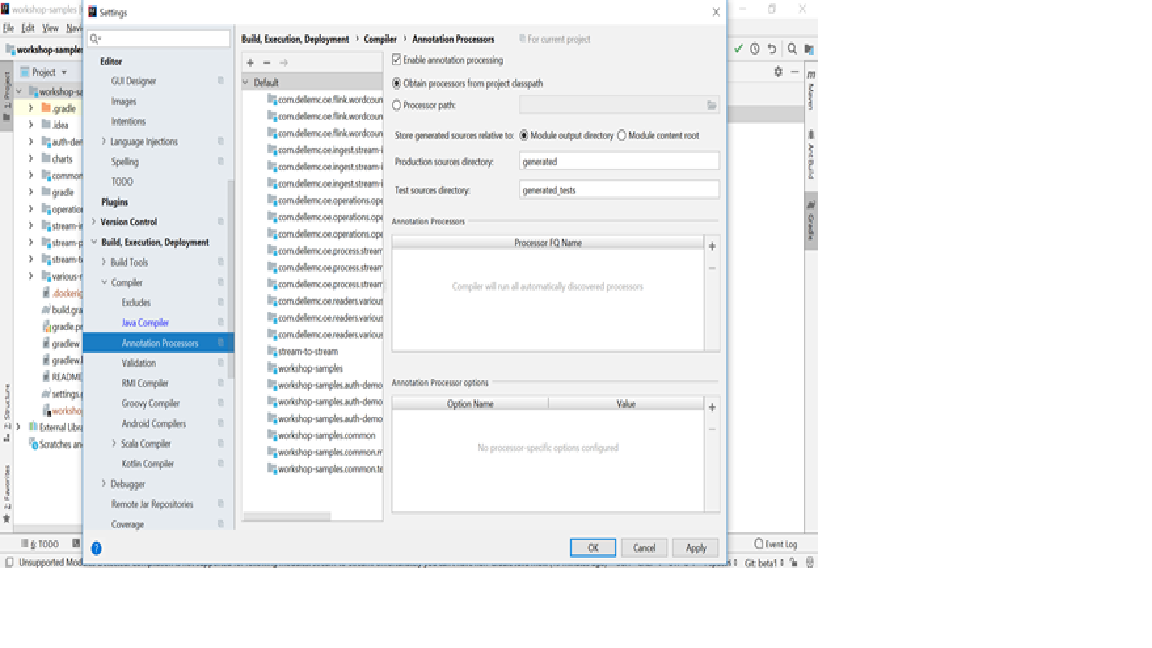
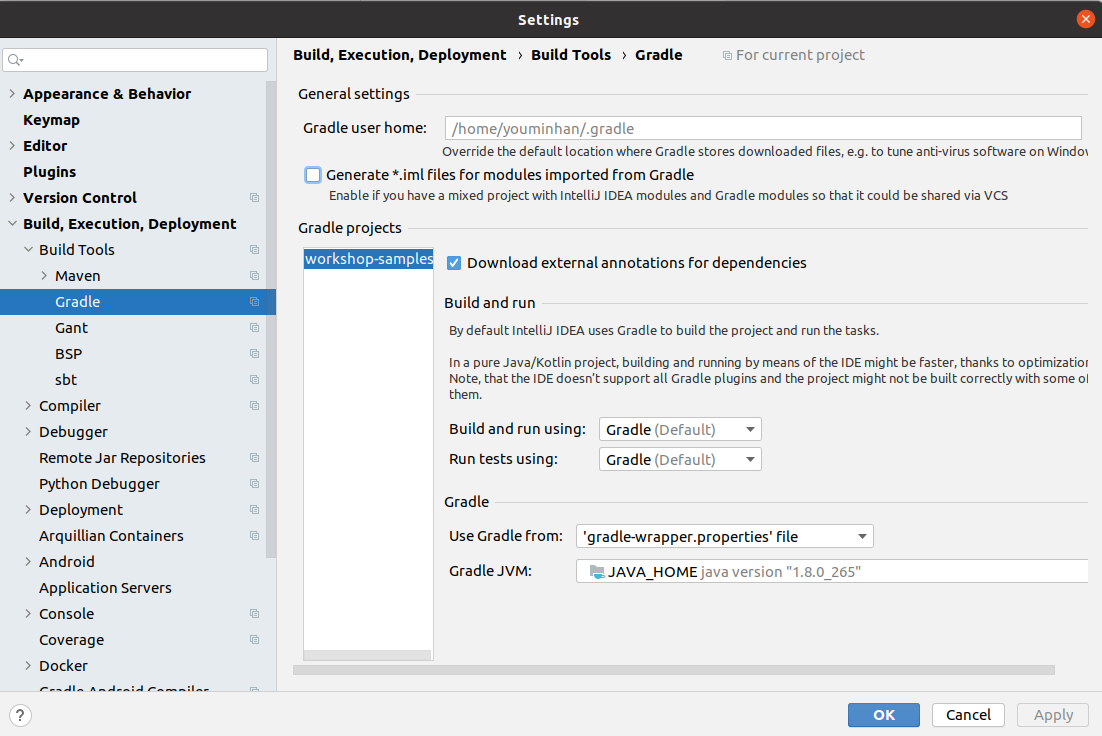
Reconstruct and update the example to be ready for OSS approval

Changed region(s): [[0.0, 0.0, 1.0, 1.0], [0.3394, 0.7716, 0.4936, 0.8025]]

diff --git a/stream-readers/src/main/java/com/dellemc/oe/readers/FlinkSQLJOINReader.java b/stream-readers/src/main/java/com/dellemc/oe/readers/FlinkSQLJOINReader.java
@@ -17,6 +17,7 @@ import com.dellemc.oe.util.AppConfiguration;
 import io.pravega.client.stream.Stream;
 import io.pravega.connectors.flink.table.descriptors.Pravega;
 import io.pravega.connectors.flink.PravegaConfig;
+import org.apache.commons.io.IOUtils;
 import org.apache.flink.api.java.tuple.Tuple2;
 
 import org.apache.flink.streaming.api.TimeCharacteristic;
@@ -36,6 +37,7 @@ import org.apache.flink.table.sources.TableSource;
 import org.apache.flink.types.Row;
 
 
+import java.io.*;
 import java.net.*;
 import java.util.Map;
 
@@ -110,22 +112,42 @@ public class FlinkSQLJOINReader extends AbstractApp {
            tableEnv.registerDataStream("hvacStream", dataStream);
 
             // load the static data from CSV.
+            String targetDirString = appConfiguration.getCsvDir();
+            File targetDir = new File(targetDirString);
+            if (targetDir.exists()){
+                LOG.info("################## Target Dir Exists: " +  targetDirString + " ################  ");
+            } else {
+                if (targetDir.mkdirs()) {
+                    LOG.info("################## Target Dir Create: " +  targetDirString + " ################  ");
+                } else {
+                    LOG.error("################## Cannot Create Target Dir: " +  targetDirString + " ################  ");
+                }
+            }
+
+            String filePath = targetDirString + "/building.csv";
             ClassLoader loader = Thread.currentThread().getContextClassLoader();
-            URL resourceUrl = loader.getResource("building.csv");
-            String filePath = resourceUrl.getPath();
-            LOG.info("################## FILE PATH ################  "+filePath);
+            InputStream resourceStream = loader.getResourceAsStream("building.csv");
+
+            File file = new File(filePath);
+            try(OutputStream outputStream = new FileOutputStream(file)){
+                IOUtils.copy(resourceStream, outputStream);
+            } catch (FileNotFoundException e) {
+                LOG.warn("########## Building File ERROR  #############  " + e.getMessage());
+            } catch (IOException e) {
+                LOG.error("########## Building File ERROR  #############  " + e.getMessage());
+            }
 
             // This is a finite list of items which has an BuildingID,BuildingMgr,BuildingAge,HVACproduct,Country
             CsvTableSource buildingSource = new CsvTableSource.Builder()
                     .path(filePath)
                     .ignoreParseErrors()
+                    .ignoreFirstLine()
                     .field("BuildingID", DataTypes.INT())
                     .field("BuildingMgr", DataTypes.STRING())
                     .field("BuildingAge", DataTypes.INT())
                     .field("HVACproduct", DataTypes.STRING())
                     .field("Country", DataTypes.STRING())
                     .build();
-
 
             // Similarly, register this list of items as a table.
             tableEnv.registerTableSource("building", buildingSource);

diff --git a/stream-readers/src/main/java/com/dellemc/oe/readers/util/HvacRecord.java b/stream-readers/src/main/java/com/dellemc/oe/readers/util/HvacRecord.java
@@ -1,5 +1,6 @@
 package com.dellemc.oe.readers.util;
 
+import org.apache.flink.table.api.DataTypes;
 import org.apache.flink.table.api.TableSchema;
 import org.apache.flink.table.api.Types;
 import org.apache.flink.table.descriptors.Schema;
@@ -11,12 +12,12 @@ public class HvacRecord {
         //  DateTime,TargetTemp,ActualTemp,System,SystemAge,Building_ID
         // Read data from the stream using Table reader
         Schema schema = new Schema()
-                .field("DateTime", Types.STRING())
-                .field("TargetTemp", Types.INT())
-                .field("ActualTemp", Types.INT())
-                .field("System", Types.STRING())
-                .field("SystemAge", Types.INT())
-                .field("Building_ID", Types.INT());
+                .field("DateTime", DataTypes.STRING())
+                .field("TargetTemp", DataTypes.INT())
+                .field("ActualTemp", DataTypes.INT())
+                .field("System", DataTypes.STRING())
+                .field("SystemAge", DataTypes.INT())
+                .field("Building_ID", DataTypes.INT());
         return schema;
     }
 }

diff --git a/common/src/main/java/com/dellemc/oe/util/AppConfiguration.java b/common/src/main/java/com/dellemc/oe/util/AppConfiguration.java
@@ -23,6 +23,7 @@ public class AppConfiguration {
     private String routingKey;
     private String dataFile;
     private String message;
+    private String csvDir;
 
     public AppConfiguration(String[] args) {
         ParameterTool params = ParameterTool.fromArgs(args);
@@ -39,7 +40,10 @@ public class AppConfiguration {
         routingKey = params.get("routing-key", "default");
         dataFile = params.get("dataFile", "earthquakes1970-2014.csv");
         message = params.get("message", "hello world");
+        csvDir = params.get("csvDir", "/mnt/flink");
     }
+
+    public String getCsvDir() {return csvDir;}
 
     public String getMessage() {
         return message;

diff --git a/README.md b/README.md
@@ -1,7 +1,7 @@
-# Nautilus Developer Workshop Code Samples
+# Dell EMC Streaming Data Platform Developer Workshop Code Samples
 
 ## Pre-Requisites
-External connectivity enabled Nautilus cluster required to perform these samples. If Nautilus cluster not exists, applications can be developed using standalone pravega.
+External connectivity enabled Dell EMC SDP cluster required to perform these samples. If SDP cluster not exists, applications can be developed using standalone pravega.
 
 Use Ubuntu VM or Ubuntu for desktops
 
@@ -16,23 +16,17 @@ Maven 3.6
 -  	Start Intellij and File -> Open –> Select the cloned workshop-sample folder
 ![Open Project](/images/IntelliJ_1.png)
 
-
 - 	Select Project -> File -> settings -> plugins and install Lombok plugin.
--	Select Project -> File -> settings -> Build,Execution,Deployment -> Annotation Process -> Select checkbox of Enable annotation processing
+-	Select Project -> File -> settings -> Build,Execution,Deployment Build Tools -> Gradle -> Select checkbox Download external annotations for dependencies
 ![Enable annotation](/images/IntelliJ_2.png)
-
--	Select Project -> File -> settings -> Build Tools -> Gradle -> enable auto import and select gradle wrapper
-![gradle wrapper](/images/IntelliJ_3.png)
-
-![gradle installDist](/images/IntelliJ_4.png)
 
 -	It will take some time to download dependencies and complete build.
 -	Go to Build -> Build Project
--	Go to the Nautilus UI and create a project workshop-samples.If you are running samples with Nautilus cluster.
+-	Go to the SDP UI and create a project workshop-samples. If you are running samples with SDP cluster.
 
 ## Configuring Standalone Pravega and running
 -	Clone Pravega from https://github.com/pravega/pravega.git and get required version.
--	Get proper release version Ex: pravega-r0.5
+-	Get proper release version Ex: pravega-r0.7
 
 -	Run standalone Pravega 
 ./gradlew startStandalone
@@ -52,11 +46,11 @@ Click ok and Run JSONWriter
 
 Configure other samples and run.
 
-## Running the Samples with Nautilus cluster
+## Running the Samples with SDP cluster
 
-### Configure Nautilus Authentication
+### Configure SDP Authentication
 
-- Create a project `workshop-samples` in Nautilus UI
+- Create a project `workshop-samples` in SDP UI
 - This will automatically create a scope `workshop-samples`
 -  Get the `keycloak.json` file by executing this command
 ```
@@ -80,7 +74,7 @@ chmod go-rw ${HOME}/keycloak.json
 }
 ```
 
-## Running [JSONWriter](../stream-ingest/src/main/java/com/dellemc/oe/ingest/JSONWriter.java) from Intelij
+## Running [JSONWriter](/stream-ingest/src/main/java/com/dellemc/oe/ingest/JSONWriter.java) from Intelij
 
 - Set the following environment variables. This can be done by setting the IntelliJ run configurations.
   (-> Go to run -> Edit Configurations -> Select JSONWriter application and click + icon. Fill the details mentioned below screen. Add all below program environment variables.)
@@ -94,7 +88,7 @@ PRAVEGA_STREAM=json-stream
 ```
 - Save configuration and hit Run
 
-## Running [JSONWReader](../various-readers/src/main/java/com/dellemc/oe/readers/JSONReader.java) from Intelij
+## Running [JSONWReader](/stream-readers/src/main/java/com/dellemc/oe/readers/JSONReader.java) from Intelij
 
 - Set the following environment variables. This can be done by setting the IntelliJ run configurations.
 
@@ -112,9 +106,9 @@ pravega_client_auth_loadDynamic=true
 
 - Save configuration and hit Run
 
-## Running [JSONWReader](../various-readers/src/main/java/com/dellemc/oe/readers/JSONReader.java) in Nautilus
+## Running [JSONWReader](/stream-readers/src/main/java/com/dellemc/oe/readers/JSONReader.java) in Dell EMC SDP
 
--  You must make the Maven repo in Nautilus available to your development workstation.
+-  You must make the Maven repo in SDP available to your development workstation.
 ```
 kubectl port-forward service/repo 9090:80 --namespace workshop-samples
 ```
@@ -126,26 +120,28 @@ export MAVEN_PASSWORD=password
 -   Build and publish your application JAR file.
 ```
 ./gradlew publish
-helm upgrade --install --timeout 600 jsonreader \
+helm upgrade --install --timeout 600s jsonreader \
 --wait --namespace workshop-samples charts
 ```
 
 ## About Samples
--   Go to the ingest module and find various writers. 
--	Run JSONWriter,ImageWriter and EventWriter from IntelliJ
+-  `stream-ingest` shows how to ingest data into a Pravega stream.   
 ``
 \workshop-samples\stream-ingest\src\main\java\com\dellemc\oe\ingest
 ``  
-    1.  JSONWriter demonstrates streaming a JSON data.  
-    2.	EventWriter demonstrate streaming a String Event  
-    3.	ImageWriter demonstrate streaming ImagaeData as a JSON
+    1.  `JSONWriter` demonstrates streaming a JSON data which convert from CSV file.  
+    2.	`EventWriter` demonstrate streaming a String Event  
+    3.	`ImageWriter` demonstrate streaming ImagaeData as a JSON
 
--	Go to various-readers module and run JSONReader and ImageReader Flink 
-apps
-``\workshop-samples\various-readers\src\main\java\com\dellemc\oe\readers``
+- `stream-processing` illustrates how to read from a Pravega stream and write to a different one.  
+``
+\workshop-samples\stream-processing\src\main\java\com\dellemc\oe\flink\wordcount
+``  
+This wordcount reads data from a stream written by EventWriter as a String and do some transformations and write to another stream.
 
--	Go to stream to stream module and run WordCountReader
-``
-\workshop-samples\stream-to-stream\src\main\java\com\dellemc\oe\flink\wordcount
-``
-- This sample reads data from a stream written by EventWriter as a String and do some transformations and write to another stream.
+- `stream-readers` exemplifies how to read the data from a Pravega stream.  
+``\workshop-samples\stream-readers\src\main\java\com\dellemc\oe\readers``  
+    1.  `JSONReader` reads the data generated by `JSONWriter` and prints to standard output.
+    2.	`ImageReader` reads the data generated by `ImageWriter` and prints the image data.
+    3.	`FlinkSQLReader` reads the data generated by `JSONWriter` and converts to a SQL table source.
+    4.  `FlinkSQLJOINReader` reads the data generated by `JSONWriter` and uses SQL to join another table.
